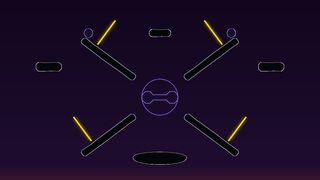
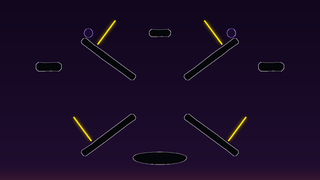
Refine arena identities and show poison danger radius immediately

Changed region(s): [[0.4375, 0.4167, 0.5625, 0.6111], [0.4688, 0.6111, 0.5312, 0.6389]]

diff --git a/surge/Maps/Tools/layouts.py b/surge/Maps/Tools/layouts.py
@@ -258,9 +258,9 @@ surge_map(
     enemies=[(-315, -50), (315, -50), (-315, 250), (315, 250), (20, 345), (0, -20)],
     weapons=[(-130, 198), (130, 198), (-212, 68), (212, 68), (-85, -82), (85, -82)],
     rare=[(0, 293)],
-    # A crate sits between the pads, and the pads throw spiders into a free spinner above the bowl
+    # A crate sits between the pads; the launch path above the bowl stays open
     parts=[
-        gadget("Box B", 0, -94), gadget("Big Spinner", 0, 105, s=0.8),
+        gadget("Box B", 0, -94),
     ],
 )
 
@@ -327,9 +327,9 @@ surge_map(
     enemies=[(-375, 60), (375, 60), (-160, 90), (160, 90), (-60, 330), (60, 330)],
     weapons=[(-330.0, 178.0), (330.0, 178.0), (-40.0, -83.0), (40.0, -83.0), (-125.0, 185.0), (125.0, 185.0)],
     rare=[(0, 275)],
-    # A beam turns in the crossing, and balls roll down the upper arms into it
+    # Balls roll down the upper arms; the central crossing stays open
     parts=[
-        gadget("Big Spinner", 0, 60, s=0.9, motor=20), gadget("Ball", -212, 250), gadget("Ball", 212, 250),
+        gadget("Ball", -212, 250), gadget("Ball", 212, 250),
     ],
 )
 
@@ -382,23 +382,22 @@ surge_map(
 surge_map(
     "derelict", "Derelict", SPACE, LAVA_ALL, zero_gravity=True,
     elements=[
-        el("Loooong Boi", -160, 250, 0, 0.9), el("Loooong Boi", 160, 250, 0, 0.9),
+        el("Loooong Boi", -160, 250, 0, 0.9), el("Loooong Boi", 185, 225, -15, 0.65),
         el("Loooong Boi", -160, -100, 0, 0.9), el("Loooong Boi", 160, -100, 0, 0.9),
-        el("Loooong Boi", -300, 75, 90, 0.9), el("Loooong Boi", 300, 75, 90, 0.9),
+        el("Loooong Boi", -300, 75, 90, 0.9), el("Loooong Boi", 300, 45, 75, 0.6),
         el("Big Block", 0, 75, 0, 0.9),
-        el("Platform", -272, 75, 0, 0.6), el("Platform", 272, 75, 0, 0.6),
+        el("Platform", -272, 75, 0, 0.6), el("Platform", 272, 45, 0, 0.6),
         hover(0, 205, 0, 0.8),
     ],
     players=[(-215, -75), (-115, -75), (115, -75), (215, -75)],
-    enemies=[(-200, 195), (200, 195), (-90, 15), (90, 15), (-210, 20), (210, 20)],
-    weapons=[(-165, -75), (165, -75), (-160, 275), (160, 275), (-272, 95), (272, 95)],
+    enemies=[(-200, 195), (200, 160), (-90, 15), (90, 15), (-210, 20), (220, -5)],
+    weapons=[(-165, -75), (165, -75), (-160, 275), (185, 250), (-272, 95), (272, 65)],
     rare=[(0, 118)],
-    # A powered turbine and a free one, a lift that rises out of the floor gap, and cargo adrift
+    # A powered turbine and a smaller displaced free rotor, with cargo adrift and an open floor breach
     parts=[
-        gadget("Big Spinner", -150, 120, s=0.7, motor=35), gadget("Big Spinner", 150, 120, s=0.7),
-        gadget("Moving Platform B", 0, -95),
+        gadget("Big Spinner", -150, 120, s=0.7, motor=35), gadget("Big Spinner", 155, 55, r=25, s=0.55),
         gadget("Box A", -80, 200), gadget("Box B", 80, 195), gadget("Box Wide", -235, 150, r=30),
-        gadget("Box A", 235, 145), gadget("Ball", -40, 300), gadget("Ball", 60, -30),
+        gadget("Box A", 245, 125), gadget("Ball", -40, 300), gadget("Ball", 60, -30),
     ],
 )
 

diff --git a/surge/Vfx/PoisonGasVfx.cs b/surge/Vfx/PoisonGasVfx.cs
@@ -9,7 +9,6 @@ namespace SpiderSurge.Vfx
     {
         private const int FillOrder = 200;
         private const int PuffOrder = 210;
-        private const float GrowTime = 0.25f;
 
         private static Sprite rim;
         private static Sprite puff;
@@ -20,7 +19,6 @@ namespace SpiderSurge.Vfx
         private ParticleSystem bubbles;
         private Transform cloud;
         private float radius;
-        private float elapsed;
         private float fadeTime = -1f;
         private float fadeElapsed;
 
@@ -66,7 +64,6 @@ namespace SpiderSurge.Vfx
 
         private void Update()
         {
-            elapsed += Time.deltaTime;
             if (cloud == null) Fade(Values.FadeTime);
             if (fadeTime >= 0f)
             {
@@ -80,12 +77,11 @@ namespace SpiderSurge.Vfx
             Apply();
         }
 
-        // The gas swells out to its full radius as it bursts, then holds a fixed edge until it clears
+        // The boundary shows the full danger radius immediately; the puffs swell inside it
         private void Apply()
         {
             if (fill == null) return;
-            float grow = Mathf.SmoothStep(0.35f, 1f, Mathf.Clamp01(elapsed / GrowTime));
-            float scale = radius * 2f * grow / fill.sprite.bounds.size.x;
+            float scale = radius * 2f / fill.sprite.bounds.size.x;
             fill.transform.localScale = new Vector3(scale, scale, 1f);
             float alpha = Values.GasAlpha * (fadeTime >= 0f ? 1f - Mathf.Clamp01(fadeElapsed / fadeTime) : 1f);
             fill.color = SurgeVfx.SetAlpha(Values.GasColor, alpha);

diff --git a/docs/surge-map-design.md b/docs/surge-map-design.md
@@ -16,7 +16,7 @@ The selection contains 11 arenas. Each earns its place through a recognizable si
 | Pipeworks | Interrupted pipes form pockets with multiple exits; a vent lifts spiders through the central gap and jump pads fire up the clear shafts on each side. |
 | Satellite | Long wings divide upper and lower routes around a central body and dish, with drifting debris below, all in zero gravity. |
 | Crescent | A large curved wall shelters one side while detached islands expose the other; vents under the open side lift fallen spiders back up. |
-| Derelict | A broken station hull in zero gravity: plates with open corners around a core, two turbines inside, a lift rising through the floor gap and cargo floating loose. |
+| Derelict | A broken station hull in zero gravity: a shortened, tilted roof and buckled right wall open an uneven breach around a core. A powered turbine and smaller displaced free rotor sit among floating cargo; the floor gap stays open. |
 
 Ten layouts were removed from the original 20-map selection:
 
@@ -49,7 +49,7 @@ The custom map scene gives every map the same 930 × 530 camera box, about three
 | Pipeworks | 0.9 | 674 × 457 |
 | Satellite | 1 | 718 × 509 |
 | Crescent | 0.8 | 494 × 421 |
-| Derelict | 1 | 670 × 465 |
+| Derelict | 1 | 681 × 465 |
 
 Jump pads keep their force on a scaled map, so they throw relatively higher: on Trampoline a pad launch peaks at y 117, level with the upper platforms and well inside the 236 camera top.
 
@@ -90,10 +90,12 @@ Most base-game arenas have something that moves or can be pushed: 76% of the end
 |---|---|---|---|
 | Crate | `Box A`, `Box B`, `Box Wide` | Loose physics box, pushed by spiders, shots and explosions | Thin Ice, Caldera, Trampoline, Geysers, Jaws, Pipeworks, Satellite, Derelict |
 | Ball | `Ball` | Loose rolling ball | Cactus Garden, Geysers, Crossbeams, Pipeworks, Satellite, Derelict |
-| Turbine | `Big Spinner` | A beam on a center hinge; free, or turned by a motor at the layout's `motor` degrees per second | Cactus Garden, Trampoline, Jaws, Crossbeams, Satellite, Crescent, Derelict |
+| Turbine | `Big Spinner` | A beam on a center hinge; free, or turned by a motor at the layout's `motor` degrees per second | Cactus Garden, Jaws, Satellite, Crescent, Derelict |
 | Swing | `Swing` | A plank on two ropes under a fixed anchor | Thin Ice, Crescent |
 | Cage | `DescendingCage` | Sinks about 128 below its hooks and rises again, waiting 2 seconds at each end | Geysers, Pipeworks |
-| Lift | `Moving Platform B` | Rises 108 along its up direction while something stands on it, then returns | Caldera, Derelict |
+| Lift | `Moving Platform B` | Rises 108 along its up direction while something stands on it, then returns | Caldera |
+
+Trampoline keeps its pad launch path open, and Crossbeams keeps its central crossing open; neither uses a turbine. Their loose crate and balls add physics interactions without competing with their defining movement mechanics.
 
 - **Network:** the prefabs are already registered network prefabs, so the host's spawn reaches clients with no new messages. Their own components carry scale, body motion and joints. The host sets only physics that the client copies cannot fight: motors, shortened ropes and cage travel.
 - **No respawn:** the base game's crates and balls are indestructible, so lava does not remove them, and nothing brings back one that falls through it. Surge keeps that: a crate or ball lost to the lava, or drifting off in zero gravity, stays gone until the level reloads. The reload after everyone dies, and the next map, rebuild every part at its place.
